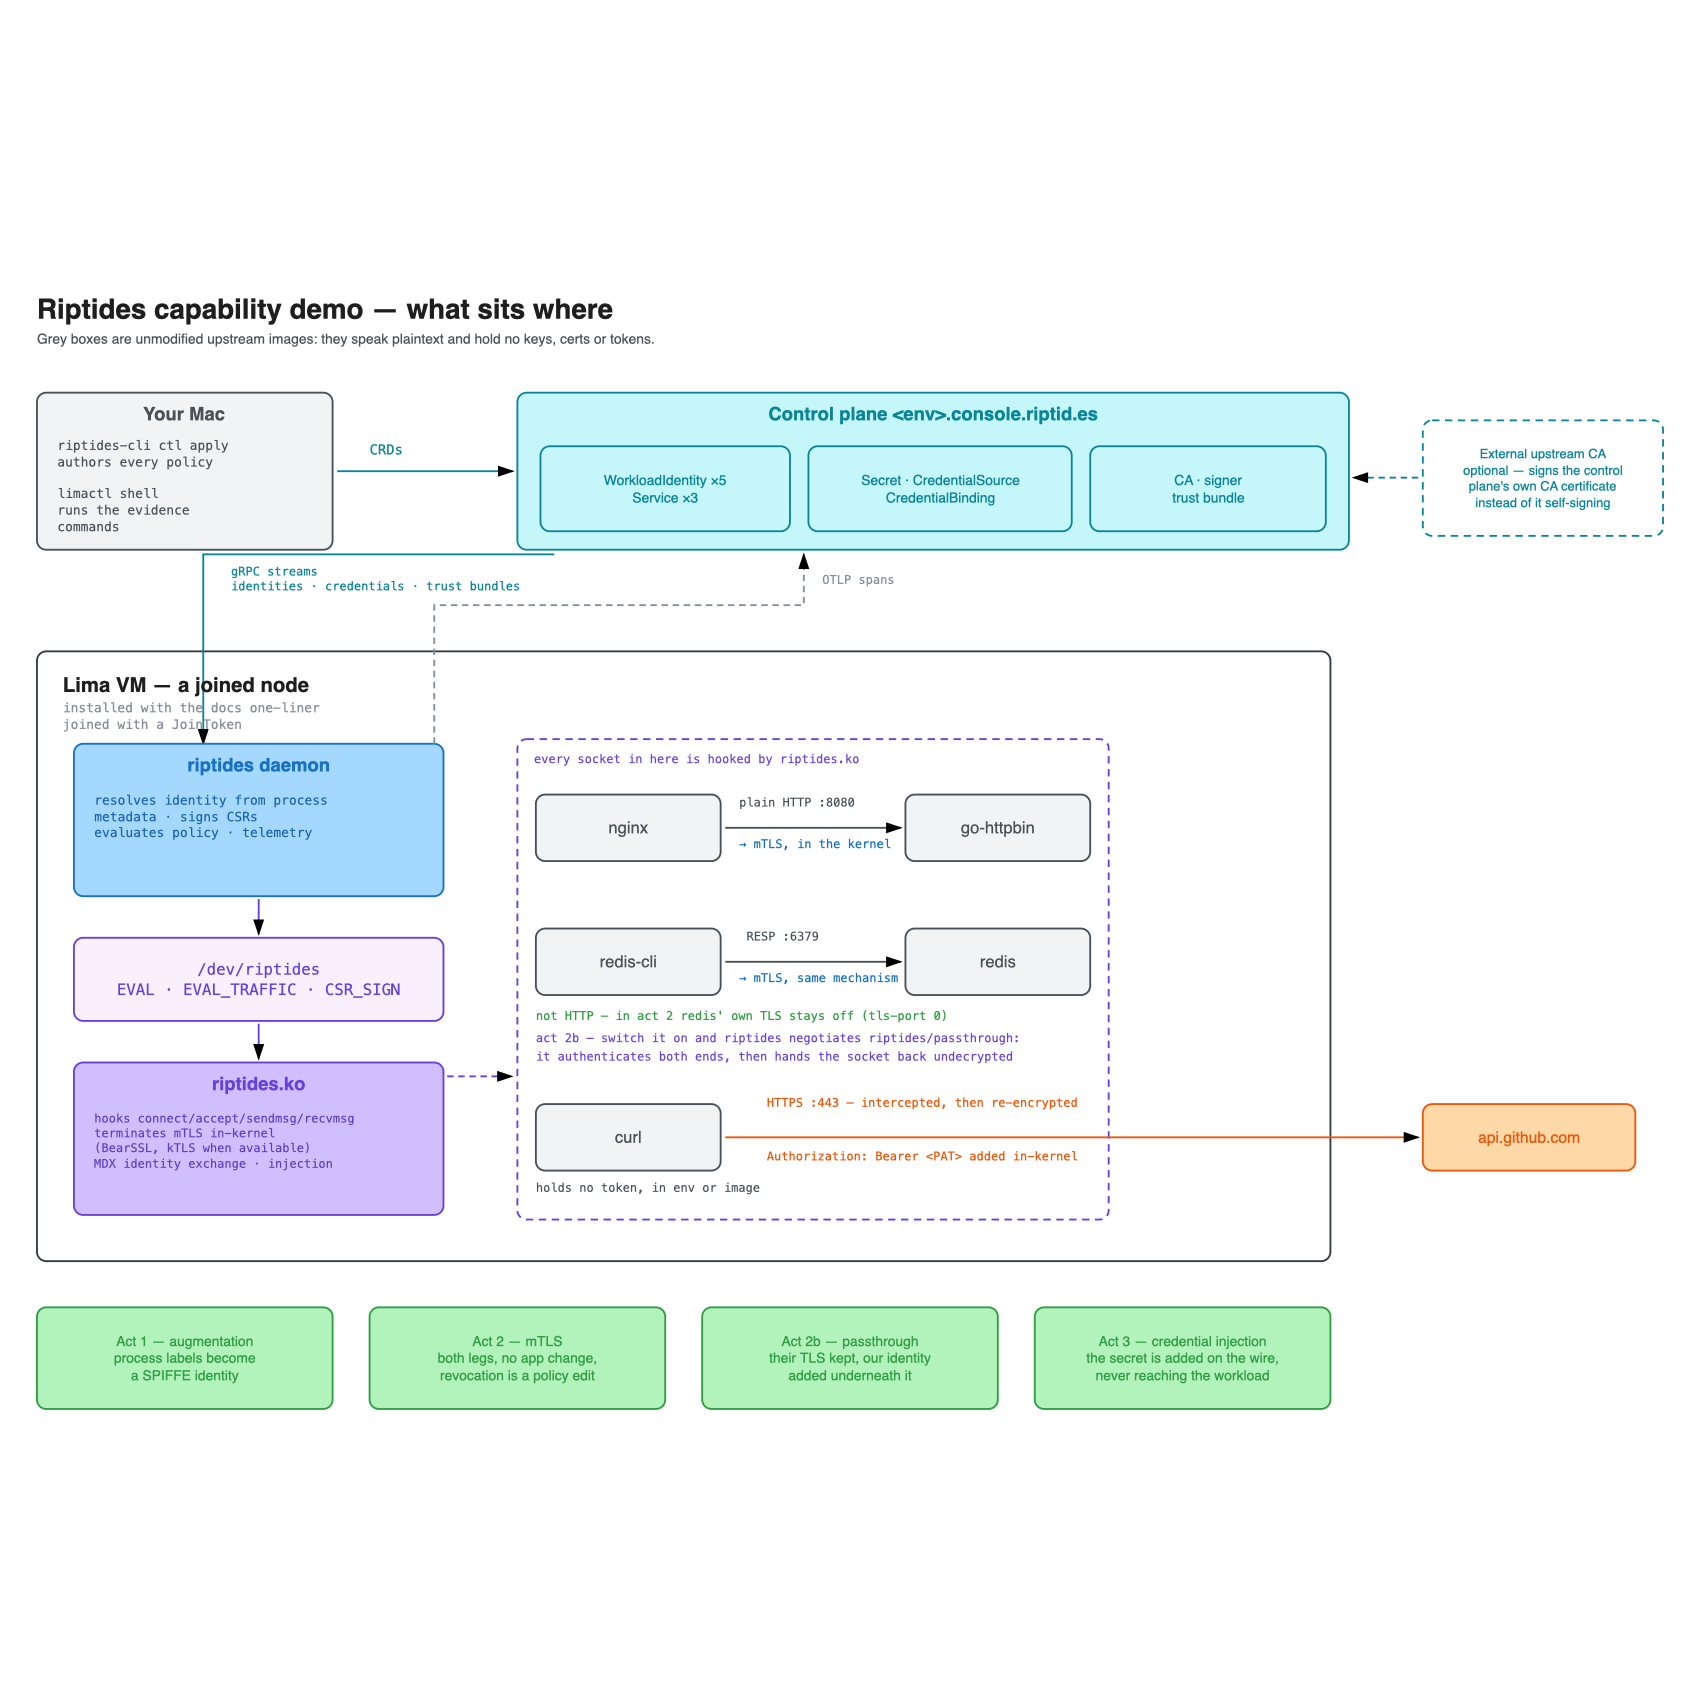
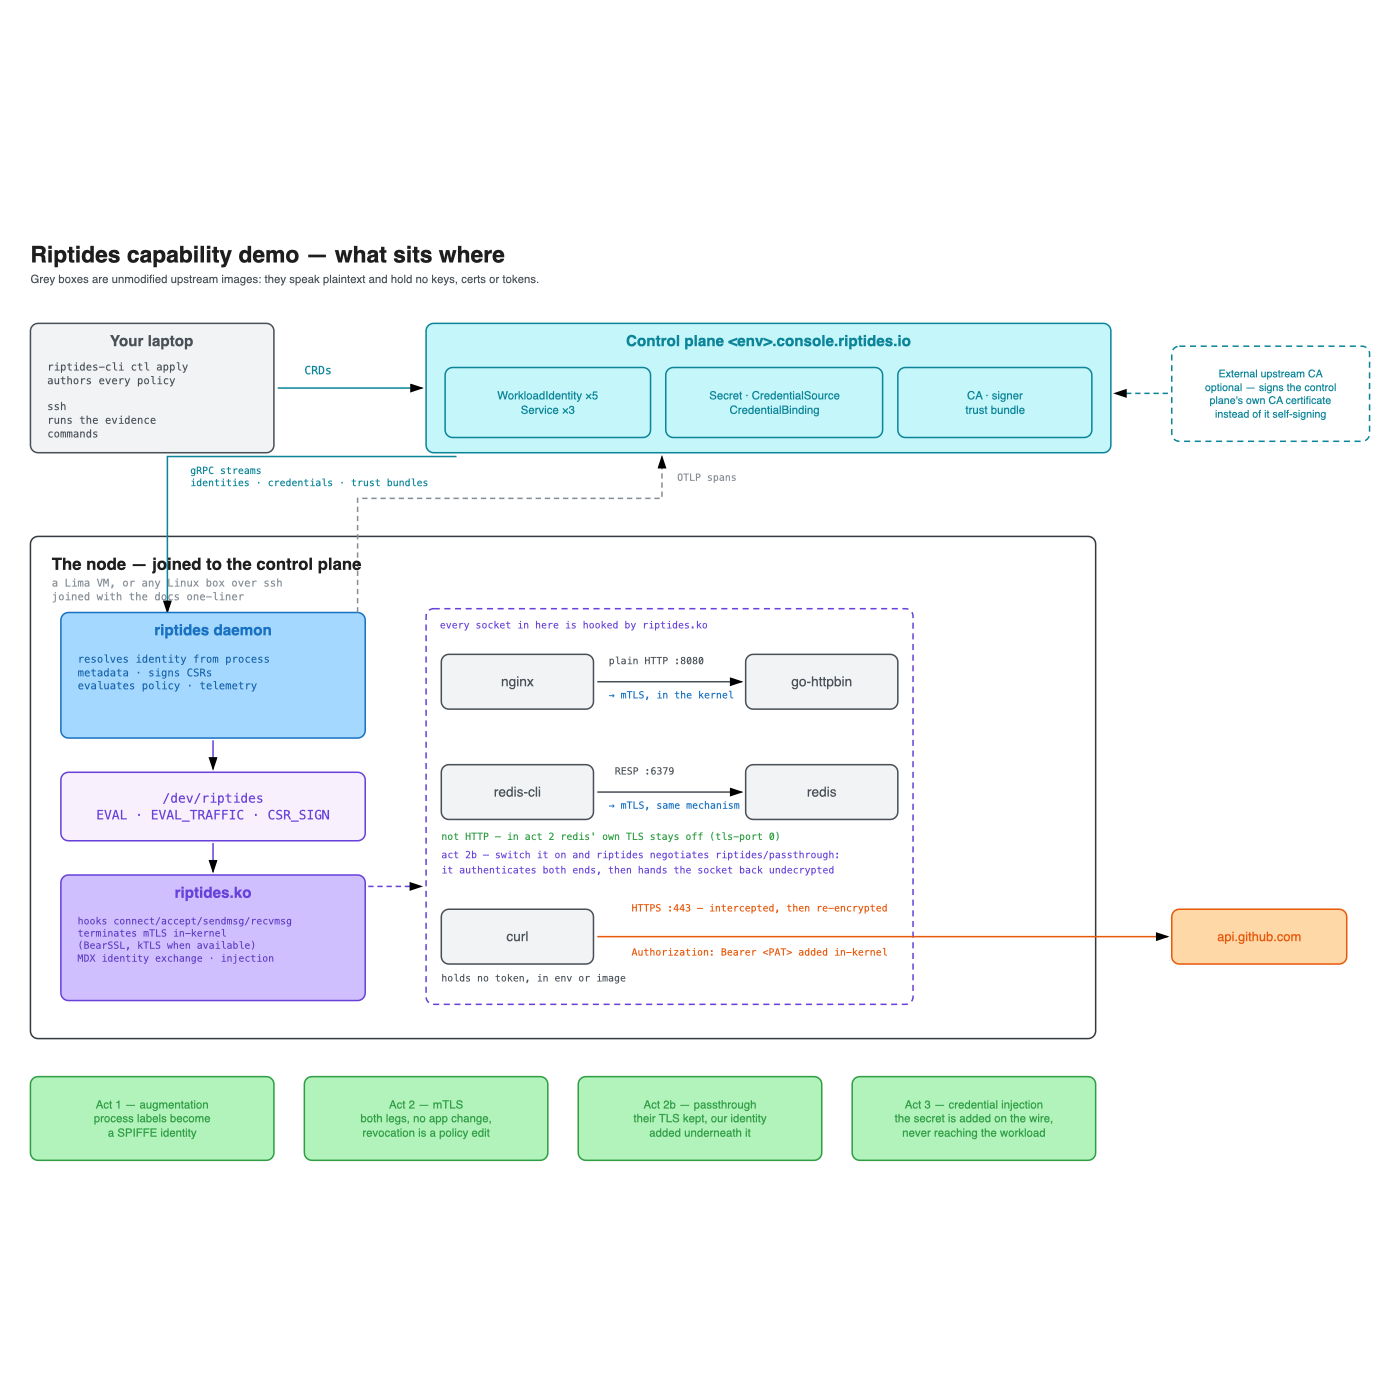
Diagram: laptop and ssh, not Mac and limactl
The demo runs against a Lima VM or any joined Linux box over ssh; the diagram
still described the Lima-only shape it started as.

diff --git a/README.md b/README.md
@@ -303,7 +303,8 @@ saying out loud — it is the one part of the demo that touches the workload.
 
 ![Riptides capability demo — what sits where](docs/riptides-demo-architecture.preview.png)
 
-What sits where, from the platform's point of view: the control plane and the
+What sits where, from the platform's point of view — your laptop drives it,
+the node runs it: the control plane and the
 CRDs, the daemon and the module either side of `/dev/riptides`, the five
 workloads inside the hooked region, and the one arrow that leaves the node.
 
